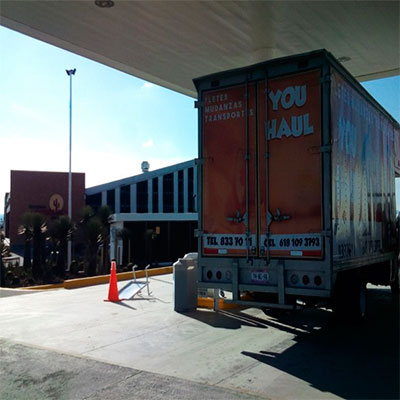
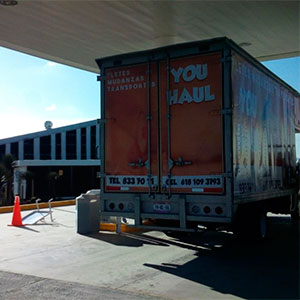
Arreglo imagenes y arreglo bug de menu

diff --git a/depurado/menu.html b/depurado/menu.html
@@ -4,10 +4,10 @@
 </div>
 <nav id="menu">
 	<ul class="links" id="myMenu">
-		<li data-menuanchor="index" class="active"><a href="#index">Inicio</a></li>
-		<li data-menuanchor="acerca"><a href="#acerca">Acerca de</a></li>
-		<li data-menuanchor="equipo"><a href="#equipo">Equipo</a></li>
-		<li data-menuanchor="antecedentes"><a href="#antecedentes">Trabajos</a></li>
+		<li data-menuanchor="index" class="active"><a href="index.php#index">Inicio</a></li>
+		<li data-menuanchor="acerca"><a href="index.php#acerca">Acerca de</a></li>
+		<li data-menuanchor="equipo"><a href="index.php#equipo">Equipo</a></li>
+		<li data-menuanchor="antecedentes"><a href="index.php#antecedentes">Experiencia</a></li>
 		<li data-menuanchor=""><a href="ubicacion.php">Ubicación</a></li>
 		<li data-menuanchor=""><a href="contacto.php">Contacto</a></li>
 		<div class="marca">
